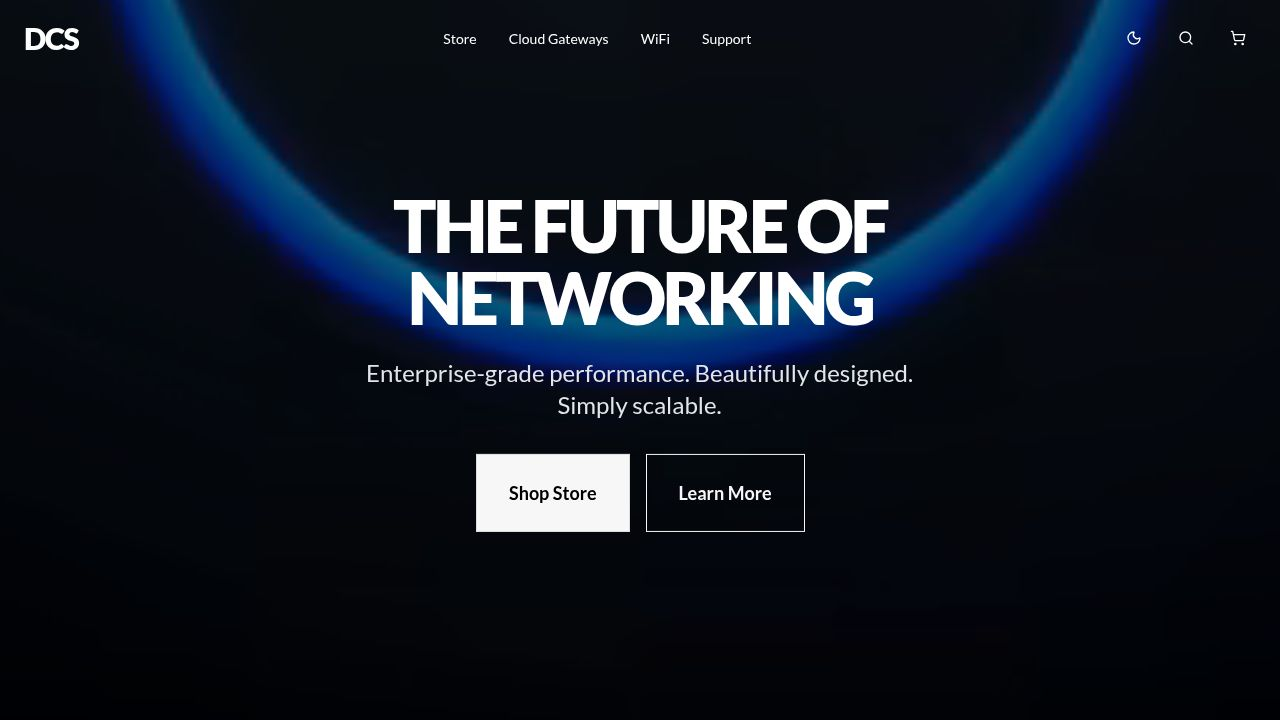
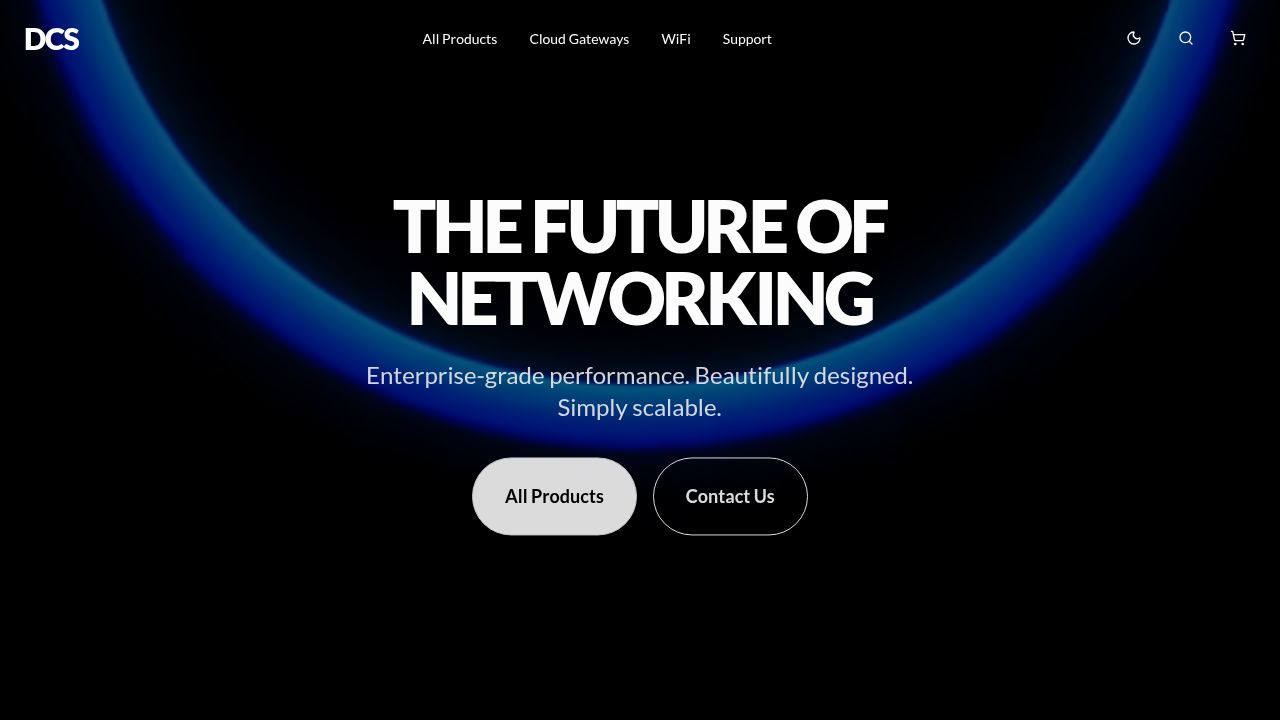
Update website to feature rounded corners and aesthetic category layouts
Replaces sharp corners with rounded ones across the UI, adds a masonry-style grid for the "Our Ecosystem" section, and redesigns the "New Release" section with a dark, minimalist aesthetic.

Replit-Commit-Author: Agent
Replit-Commit-Session-Id: aaabdfcc-5a65-4287-9cb0-7b4021ad3c90
Replit-Commit-Checkpoint-Type: full_checkpoint
Replit-Commit-Event-Id: 96b76451-aff0-4ca5-89de-cb59677e54cc
Replit-Commit-Screenshot-Url: https://storage.googleapis.com/screenshot-production-us-central1/955c7266-6028-4f66-9b85-2a13a44151a1/aaabdfcc-5a65-4287-9cb0-7b4021ad3c90/4To8ZYF
Replit-Helium-Checkpoint-Created: true

diff --git a/client/src/pages/home.tsx b/client/src/pages/home.tsx
@@ -3,6 +3,7 @@ import { Button } from "@/components/ui/button";
 import { products, CATEGORIES } from "@/lib/data";
 import { Link } from "wouter";
 import { ArrowRight } from "lucide-react";
+import { motion } from "framer-motion";
 
 export default function Home() {
   return (
@@ -11,7 +12,7 @@ export default function Home() {
       <section className="relative h-screen w-full overflow-hidden bg-black">
         {/* Video Background */}
         <div className="absolute inset-0 z-0 pointer-events-none">
-          <div className="absolute inset-0 bg-black/40 z-10" /> {/* Overlay for text readability */}
+          <div className="absolute inset-0 bg-black/40 z-10" />
           <iframe
             src="https://www.youtube.com/embed/69g3O3Ltygw?autoplay=1&mute=1&loop=1&playlist=69g3O3Ltygw&controls=0&showinfo=0&rel=0&modestbranding=1&iv_load_policy=3"
             className="w-[300%] h-[300%] -ml-[100%] -mt-[100%] object-cover opacity-80"
@@ -30,157 +31,258 @@ export default function Home() {
           </p>
           <div className="flex gap-4 animate-in fade-in slide-in-from-bottom-8 duration-1000 delay-300">
             <Link href="/collections/all">
-              <Button size="lg" className="bg-white text-black hover:bg-gray-200 text-lg px-8 py-6 rounded-none font-bold">
+              <Button size="lg" className="bg-white text-black hover:bg-gray-200 text-lg px-8 py-6 rounded-full font-bold transition-all hover:scale-105">
                 All Products
               </Button>
             </Link>
-            <Link href="/collections/cloud-gateways">
-              <Button size="lg" variant="outline" className="border-white text-white hover:bg-white/10 text-lg px-8 py-6 rounded-none font-bold">
+            <Link href="/support">
+              <Button size="lg" variant="outline" className="border-white text-white hover:bg-white/10 text-lg px-8 py-6 rounded-full font-bold transition-all hover:scale-105">
                 Contact Us
               </Button>
             </Link>
           </div>
         </div>
       </section>
-      {/* Categories Grid */}
-      <section className="py-24 bg-secondary">
+
+      {/* 🔹 Reimagined Ecosystem Section - Aesthetic Masonry Layout */}
+      <section className="py-24 bg-secondary/30">
         <div className="container mx-auto px-4">
-          <h2 className="text-3xl font-bold mb-12 text-center">Explore Systems</h2>
-          <div className="grid grid-cols-1 md:grid-cols-2 lg:grid-cols-3 gap-6">
-            {CATEGORIES.map((category) => {
-              // Find a representative image for the category
-              const repProduct = products.find(p => p.category === category) || products[0];
-              
-              return (
-                <Link key={category} href={`/collections/${category.toLowerCase().replace(/ /g, '-')}`}>
-                  <a className="group relative h-[400px] overflow-hidden bg-white shadow-sm hover:shadow-xl transition-all duration-300 block border border-border">
-                    <div className="absolute inset-0 p-8 flex flex-col justify-between z-10">
-                      <div>
-                        <h3 className="text-2xl font-bold mb-2 group-hover:text-primary transition-colors">{category}</h3>
-                        <p className="text-gray-500 text-sm"></p>
-                      </div>
-                      <div className="self-end opacity-0 group-hover:opacity-100 transition-opacity -translate-x-4 group-hover:translate-x-0 duration-300">
-                        <ArrowRight className="w-6 h-6 text-primary" />
-                      </div>
-                    </div>
-                    <div className="absolute inset-0 flex items-center justify-center pt-20">
-                       <img 
-                        src={repProduct.image} 
-                        alt={category} 
-                        className="w-3/4 object-contain transition-transform duration-500 group-hover:scale-110"
-                      />
-                    </div>
-                  </a>
-                </Link>
-              );
-            })}
+          <div className="text-center mb-16">
+            <h2 className="text-4xl md:text-5xl font-black tracking-tight mb-4">Our Ecosystem</h2>
+            <p className="text-muted-foreground text-lg max-w-2xl mx-auto">Integrated solutions for every environment, built to scale.</p>
+          </div>
+          
+          <div className="grid grid-cols-1 md:grid-cols-12 gap-6 h-auto md:h-[900px]">
+            {/* WiFi Systems - Large Main Card */}
+            <Link href="/collections/wifi" className="md:col-span-8 md:row-span-2">
+              <motion.a 
+                whileHover={{ scale: 0.99 }}
+                className="group relative h-full min-h-[400px] overflow-hidden bg-white dark:bg-card shadow-sm hover:shadow-2xl transition-all duration-500 block border border-border rounded-[var(--radius)]"
+              >
+                <div className="absolute inset-0 p-10 z-20 flex flex-col justify-end bg-gradient-to-t from-black/60 via-black/20 to-transparent">
+                  <h3 className="text-3xl font-bold text-white mb-2">WiFi Systems</h3>
+                  <p className="text-white/80 max-w-sm">Blazing fast wireless coverage for any space with WiFi 7 technology.</p>
+                </div>
+                <img 
+                  src="/images/wifi-banner.png" 
+                  alt="WiFi" 
+                  className="absolute inset-0 w-full h-full object-cover transition-transform duration-700 group-hover:scale-110"
+                />
+              </motion.a>
+            </Link>
+
+            {/* Switching - Side Card */}
+            <Link href="/collections/switching" className="md:col-span-4 md:row-span-1">
+              <motion.a 
+                whileHover={{ scale: 0.98 }}
+                className="group relative h-full min-h-[250px] overflow-hidden bg-white dark:bg-card shadow-sm hover:shadow-2xl transition-all duration-500 block border border-border rounded-[var(--radius)]"
+              >
+                <div className="absolute inset-0 p-8 z-20 flex flex-col justify-end bg-gradient-to-t from-black/60 to-transparent">
+                  <h3 className="text-2xl font-bold text-white">Switching</h3>
+                  <p className="text-white/70 text-sm">The backbone of your network infrastructure.</p>
+                </div>
+                <img 
+                  src="/images/switch.jpg" 
+                  alt="Switching" 
+                  className="absolute inset-0 w-full h-full object-cover transition-transform duration-700 group-hover:scale-110"
+                />
+              </motion.a>
+            </Link>
+
+            {/* Security - Side Card */}
+            <Link href="/collections/camera-security" className="md:col-span-4 md:row-span-1">
+              <motion.a 
+                whileHover={{ scale: 0.98 }}
+                className="group relative h-full min-h-[250px] overflow-hidden bg-white dark:bg-card shadow-sm hover:shadow-2xl transition-all duration-500 block border border-border rounded-[var(--radius)]"
+              >
+                <div className="absolute inset-0 p-8 z-20 flex flex-col justify-end bg-gradient-to-t from-black/60 to-transparent">
+                  <h3 className="text-2xl font-bold text-white">Security</h3>
+                  <p className="text-white/70 text-sm">Protect what matters with AI-driven surveillance.</p>
+                </div>
+                <img 
+                  src="/images/camera.jpg" 
+                  alt="Security" 
+                  className="absolute inset-0 w-full h-full object-cover transition-transform duration-700 group-hover:scale-110"
+                />
+              </motion.a>
+            </Link>
+
+            {/* Cloud Gateways - Bottom Grid */}
+            <Link href="/collections/cloud-gateways" className="md:col-span-4 md:row-span-1">
+              <motion.a 
+                whileHover={{ scale: 0.98 }}
+                className="group relative h-full min-h-[250px] overflow-hidden bg-white dark:bg-card shadow-sm hover:shadow-2xl transition-all duration-500 block border border-border rounded-[var(--radius)]"
+              >
+                <div className="absolute inset-0 p-8 z-20 flex flex-col justify-end bg-gradient-to-t from-black/60 to-transparent">
+                  <h3 className="text-xl font-bold text-white">Cloud Gateways</h3>
+                </div>
+                <img 
+                  src="/images/gateway-banner.png" 
+                  alt="Gateways" 
+                  className="absolute inset-0 w-full h-full object-cover transition-transform duration-700 group-hover:scale-110"
+                />
+              </motion.a>
+            </Link>
+
+            {/* Door Access - Bottom Grid */}
+            <Link href="/collections/door-access" className="md:col-span-4 md:row-span-1">
+              <motion.a 
+                whileHover={{ scale: 0.98 }}
+                className="group relative h-full min-h-[250px] overflow-hidden bg-white dark:bg-card shadow-sm hover:shadow-2xl transition-all duration-500 block border border-border rounded-[var(--radius)]"
+              >
+                <div className="absolute inset-0 p-8 z-20 flex flex-col justify-end bg-gradient-to-t from-black/60 to-transparent">
+                  <h3 className="text-xl font-bold text-white">Door Access</h3>
+                </div>
+                <img 
+                  src="/images/door-access.jpg" 
+                  alt="Access" 
+                  className="absolute inset-0 w-full h-full object-cover transition-transform duration-700 group-hover:scale-110"
+                />
+              </motion.a>
+            </Link>
+
+            {/* Others - Bottom Grid */}
+            <Link href="/collections/others" className="md:col-span-4 md:row-span-1">
+              <motion.a 
+                whileHover={{ scale: 0.98 }}
+                className="group relative h-full min-h-[250px] overflow-hidden bg-white dark:bg-card shadow-sm hover:shadow-2xl transition-all duration-500 block border border-border rounded-[var(--radius)] flex flex-col items-center justify-center p-8 text-center"
+              >
+                <h3 className="text-2xl font-black mb-4 group-hover:text-primary transition-colors uppercase italic">View All</h3>
+                <ArrowRight className="w-12 h-12 text-primary group-hover:translate-x-4 transition-transform duration-500" />
+              </motion.a>
+            </Link>
           </div>
         </div>
       </section>
-      {/* DCS Infrastructure Section - Inspired by Reference */}
-      <section className="bg-black text-white py-32">
+
+      {/* Reimagined Infrastructure Showcase */}
+      <section className="bg-black text-white py-32 overflow-hidden">
         <div className="container mx-auto px-4 text-center mb-24">
-          <h2 className="text-4xl md:text-5xl font-black tracking-tight mb-6">UniFi Full-Stack Platform Ecosystem</h2>
-          <p className="text-gray-400 max-w-2xl mx-auto text-lg mb-8">
-            Building the Future of IT. License Free.
+          <h2 className="text-5xl md:text-7xl font-black tracking-tighter mb-6">UNIFY YOUR WORLD</h2>
+          <p className="text-gray-400 max-w-2xl mx-auto text-xl mb-12">
+            Professional-grade software meets enterprise-grade hardware. No subscriptions.
           </p>
-          <Button variant="outline" className="border-white text-white hover:bg-white/10 rounded-full px-8">
+          <Button variant="outline" className="border-white text-white hover:bg-white hover:text-black rounded-full px-12 h-16 text-lg font-bold transition-all">
             Talk to an Expert
           </Button>
         </div>
 
-        <div className="container mx-auto px-4 space-y-32">
+        <div className="container mx-auto px-4 space-y-48">
           {/* DCS Protect */}
-          <div className="flex flex-col md:flex-row items-center gap-16 lg:gap-32">
-            <div className="flex-1 flex justify-center order-2 md:order-1">
-              <div className="relative w-full max-w-md aspect-square rounded-full overflow-hidden border-8 border-white/5 bg-gradient-to-br from-blue-900/20 to-black">
-                <img src="/images/dcs-protect.png" alt="DCS Protect" className="w-full h-full object-cover opacity-90" />
+          <div className="flex flex-col lg:flex-row items-center gap-16 lg:gap-32">
+            <div className="flex-1 order-2 lg:order-1">
+              <div className="relative group cursor-pointer">
+                <div className="absolute inset-0 bg-primary/20 blur-[100px] rounded-full group-hover:bg-primary/30 transition-all duration-700" />
+                <img
+                  src="/images/dcs-protect.png"
+                  alt="DCS Protect"
+                  className="relative z-10 w-full max-w-xl mx-auto rounded-full border-8 border-white/5 shadow-2xl transition-transform duration-700 group-hover:scale-105 group-hover:rotate-2"
+                />
               </div>
             </div>
-            <div className="flex-1 space-y-6 order-1 md:order-2 text-center md:text-left">
-              <h3 className="text-3xl font-bold">UniFi Physical Security</h3>
-              <p className="text-gray-400 text-lg leading-relaxed">
-                A License-Free enterprise-grade security platform powered by an AI detection engine and built to support UL 294 compliance. It delivers intelligent monitoring, accurate event detection, and centralized management in a single unified system, providing reliable & scalable protection for modern businesses, campuses, and smart environments.
+            <div className="flex-1 space-y-8 order-1 lg:order-2 text-center lg:text-left">
+              <h3 className="text-4xl md:text-5xl font-black italic uppercase">DCS Protect</h3>
+              <p className="text-gray-400 text-xl leading-relaxed">
+                A License-Free enterprise-grade security platform powered by an AI detection engine. It delivers intelligent monitoring and centralized management in a single unified system.
               </p>
-              <Button variant="outline" className="border-white text-white hover:bg-white/10 rounded-full px-8 group">
-                Explore Here! <ArrowRight className="ml-2 w-4 h-4 group-hover:translate-x-1 transition-transform" />
+              <Button variant="outline" className="border-white text-white hover:bg-white hover:text-black rounded-full px-10 h-14 text-lg group">
+                Explore Protect <ArrowRight className="ml-2 w-5 h-5 group-hover:translate-x-2 transition-transform" />
               </Button>
             </div>
           </div>
 
           {/* DCS Network */}
-          <div className="flex flex-col md:flex-row items-center gap-16 lg:gap-32">
-            <div className="flex-1 space-y-6 text-center md:text-left">
-              <h3 className="text-3xl font-bold">UniFi Network</h3>
-              <p className="text-gray-400 text-lg leading-relaxed">
-                Powered by UniFi Cloud Gateways, UniFi Network enables centralized management of WiFi and switching with local processing at each site. Gain instant visibility into traffic, topology, and performance while maintaining high availability and operational simplicity.
+          <div className="flex flex-col lg:flex-row items-center gap-16 lg:gap-32">
+            <div className="flex-1 space-y-8 text-center lg:text-left">
+              <h3 className="text-4xl md:text-5xl font-black italic uppercase">DCS Network</h3>
+              <p className="text-gray-400 text-xl leading-relaxed">
+                Centralized management of WiFi and switching with local processing at each site. Gain instant visibility into traffic, topology, and performance.
               </p>
-              <Button variant="outline" className="border-white text-white hover:bg-white/10 rounded-full px-8 group">
-                Explore Here! <ArrowRight className="ml-2 w-4 h-4 group-hover:translate-x-1 transition-transform" />
+              <Button variant="outline" className="border-white text-white hover:bg-white hover:text-black rounded-full px-10 h-14 text-lg group">
+                Explore Network <ArrowRight className="ml-2 w-5 h-5 group-hover:translate-x-2 transition-transform" />
               </Button>
             </div>
-            <div className="flex-1 flex justify-center">
-              <div className="relative w-full max-w-md aspect-square rounded-full overflow-hidden border-8 border-white/5 bg-gradient-to-br from-blue-900/20 to-black">
-                <img src="/images/dcs-network.png" alt="DCS Network" className="w-full h-full object-cover opacity-90" />
+            <div className="flex-1">
+              <div className="relative group cursor-pointer">
+                <div className="absolute inset-0 bg-primary/20 blur-[100px] rounded-full group-hover:bg-primary/30 transition-all duration-700" />
+                <img
+                  src="/images/dcs-network.png"
+                  alt="DCS Network"
+                  className="relative z-10 w-full max-w-xl mx-auto rounded-full border-8 border-white/5 shadow-2xl transition-transform duration-700 group-hover:scale-105 group-hover:-rotate-2"
+                />
               </div>
             </div>
           </div>
 
           {/* DCS Access */}
-          <div className="flex flex-col md:flex-row items-center gap-16 lg:gap-32 pb-16">
-            <div className="flex-1 flex justify-center order-2 md:order-1">
-              <div className="relative w-full max-w-md aspect-square rounded-full overflow-hidden border-8 border-white/5 bg-gradient-to-br from-blue-900/20 to-black">
-                <img src="/images/dcs-access.png" alt="DCS Access" className="w-full h-full object-cover opacity-90" />
+          <div className="flex flex-col lg:flex-row items-center gap-16 lg:gap-32 pb-16">
+            <div className="flex-1 order-2 lg:order-1">
+              <div className="relative group cursor-pointer">
+                <div className="absolute inset-0 bg-primary/20 blur-[100px] rounded-full group-hover:bg-primary/30 transition-all duration-700" />
+                <img
+                  src="/images/dcs-access.png"
+                  alt="DCS Access"
+                  className="relative z-10 w-full max-w-xl mx-auto rounded-full border-8 border-white/5 shadow-2xl transition-transform duration-700 group-hover:scale-105 group-hover:rotate-2"
+                />
               </div>
             </div>
-            <div className="flex-1 space-y-6 order-1 md:order-2 text-center md:text-left">
-              <h3 className="text-3xl font-bold">UniFi Integrations</h3>
-              <p className="text-gray-400 text-lg leading-relaxed">
-                Seamlessly connect UniFi with third-party systems and services through secure APIs and native integrations. This unified approach enables automation, centralized visibility, and streamlined workflows, helping organizations build smarter operations and maximize the value of their UniFi infrastructure.
+            <div className="flex-1 space-y-8 order-1 lg:order-2 text-center lg:text-left">
+              <h3 className="text-4xl md:text-5xl font-black italic uppercase">DCS Access</h3>
+              <p className="text-gray-400 text-xl leading-relaxed">
+                Seamlessly connect with third-party systems through secure APIs. Build smarter operations and maximize the value of your infrastructure.
               </p>
-              <Button variant="outline" className="border-white text-white hover:bg-white/10 rounded-full px-8 group">
-                Explore Here! <ArrowRight className="ml-2 w-4 h-4 group-hover:translate-x-1 transition-transform" />
+              <Button variant="outline" className="border-white text-white hover:bg-white hover:text-black rounded-full px-10 h-14 text-lg group">
+                Explore Access <ArrowRight className="ml-2 w-5 h-5 group-hover:translate-x-2 transition-transform" />
               </Button>
             </div>
           </div>
         </div>
       </section>
-      
-      {/* Featured Product Banner */}
-      <section className="py-32 bg-white border-y border-gray-100">
-        <div className="container mx-auto px-4 flex flex-col md:flex-row items-center gap-16">
-          <div className="flex-1">
-            <span className="text-primary font-bold tracking-widest text-sm uppercase mb-4 block">New Release</span>
-            <h2 className="text-4xl md:text-5xl font-bold mb-6">UniFi U7 Pro</h2>
-            <p className="text-xl text-gray-500 mb-8 max-w-lg leading-relaxed">
-              The next generation of WiFi is here. Experience massive throughput and ultra-low latency with WiFi 7 technology.
-            </p>
-            <ul className="space-y-4 mb-8">
-              <li className="flex items-center gap-3">
-                <div className="w-2 h-2 bg-primary rounded-full" />
-                <span className="font-medium text-[13px]">6 GHz Support</span>
-              </li>
-              <li className="flex items-center gap-3">
-                <div className="w-2 h-2 bg-primary rounded-full" />
-                <span className="font-medium">5.7 Gbps Aggregate Throughput</span>
-              </li>
-              <li className="flex items-center gap-3">
-                <div className="w-2 h-2 bg-primary rounded-full" />
-                <span className="font-medium">Ceiling Mount Form Factor</span>
-              </li>
-            </ul>
-            <Link href="/collections/wifi">
-              <Button size="lg" className="rounded-none px-8 py-6 text-lg">
-                View Specifications
-              </Button>
-            </Link>
-          </div>
-          <div className="flex-1 flex justify-center">
-            <img 
-              src="/images/wifi-ap.jpg" 
-              alt="U7 Pro" 
-              className="w-full max-w-md object-contain drop-shadow-2xl hover:scale-105 transition-transform duration-500"
-            />
+
+      {/* New Release - Aesthetic Dark Minimalist */}
+      <section className="py-40 bg-white dark:bg-background relative overflow-hidden">
+        <div className="absolute top-1/2 left-1/2 -translate-x-1/2 -translate-y-1/2 w-full h-full bg-primary/5 blur-[120px] rounded-full pointer-events-none" />
+        <div className="container mx-auto px-4 relative z-10">
+          <div className="flex flex-col lg:flex-row items-center gap-24">
+            <div className="flex-1 space-y-10">
+              <div className="inline-flex items-center gap-3 px-6 py-2 bg-primary/10 text-primary rounded-full text-sm font-black uppercase tracking-widest">
+                <span className="relative flex h-3 w-3">
+                  <span className="animate-ping absolute inline-flex h-full w-full rounded-full bg-primary opacity-75"></span>
+                  <span className="relative inline-flex rounded-full h-3 w-3 bg-primary"></span>
+                </span>
+                State of the Art
+              </div>
+              <h2 className="text-7xl md:text-8xl font-black tracking-tighter leading-none uppercase italic">
+                U7 Pro <br /><span className="text-primary">WiFi 7</span>
+              </h2>
+              <p className="text-2xl text-muted-foreground max-w-lg leading-snug font-medium">
+                Unprecedented throughput. Ultra-low latency. The pinnacle of wireless performance.
+              </p>
+              
+              <div className="flex gap-12 border-l-4 border-primary pl-8">
+                <div>
+                  <div className="text-5xl font-black mb-1">5.7</div>
+                  <div className="text-xs text-muted-foreground uppercase tracking-widest font-black">Gbps Throughput</div>
+                </div>
+                <div>
+                  <div className="text-5xl font-black mb-1">6GHz</div>
+                  <div className="text-xs text-muted-foreground uppercase tracking-widest font-black">Spectrum Band</div>
+                </div>
+              </div>
+
+              <Link href="/collections/wifi">
+                <Button size="lg" className="rounded-full px-12 h-20 text-xl font-black uppercase shadow-2xl shadow-primary/40 hover:scale-110 transition-transform bg-primary hover:bg-primary/90">
+                  Pre-Order Now
+                </Button>
+              </Link>
+            </div>
+            <div className="flex-1 relative">
+              <img 
+                src="/images/wifi-ap.jpg" 
+                alt="U7 Pro" 
+                className="relative z-10 w-full max-w-2xl mx-auto object-contain drop-shadow-[0_50px_50px_rgba(0,0,0,0.2)] hover:-translate-y-8 transition-transform duration-1000"
+              />
+            </div>
           </div>
         </div>
       </section>

diff --git a/client/src/index.css b/client/src/index.css
@@ -77,7 +77,7 @@
   --input: 220 10% 90%;
   --ring: 220 50% 20%;
 
-  --radius: 0px;
+  --radius: 1.5rem;
 }
 
 .dark {
